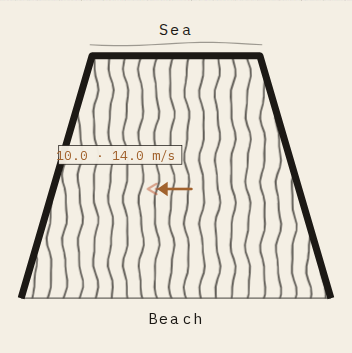
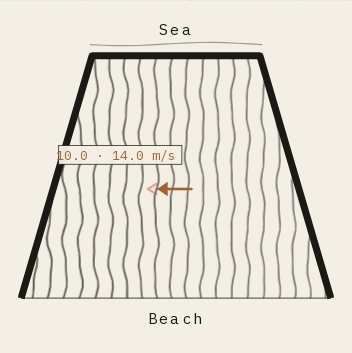
Fix sea crest gap and restore graduated plan shelter
Clamp overwash strokes to the wall crest ink line so sea mode no longer
shows a paper strip between the solid wall and wave lines. Reintroduce
continuous wind-aligned shelter on the plan: narrow calm band at the
seaward wall, wider at the beach cliff, with wall shelter dropped when
submerged. QA captures for sea, pool, and both lee directions.

diff --git a/components/plan-view.tsx b/components/plan-view.tsx
@@ -20,7 +20,7 @@ import {
   poolPlanCorners,
   type PlanPoint,
 } from "@/lib/pool-plan";
-import { quieterZone, type QuietZone } from "@/lib/shelter";
+import { quieterZone, type PlanShelterInput, type QuietZone } from "@/lib/shelter";
 import { windGlyphMark } from "@/lib/wind-glyph";
 
 const VIEW_W = 300;
@@ -153,6 +153,7 @@ function localToPlan(
 
 function RoughnessField({
   chopLevel,
+  shelter,
   zone,
   phase,
   travel,
@@ -160,6 +161,7 @@ function RoughnessField({
   meanMs,
 }: {
   chopLevel: ChopLevel;
+  shelter: PlanShelterInput | null;
   zone: QuietZone | null;
   phase: number;
   travel: number;
@@ -175,13 +177,6 @@ function RoughnessField({
     const ne = planProject(corners.ne, layout);
     const se = planProject(corners.se, layout);
     const sw = planProject(corners.sw, layout);
-    const quietForRough =
-      zone == null
-        ? null
-        : zone.whole
-          ? { whole: true, polygon: [] as PlanPoint[] }
-          : { whole: false, polygon: zone.polygon };
-
     const reach = Math.max(
       Math.hypot(nw.x - mid.x, nw.y - mid.y),
       Math.hypot(ne.x - mid.x, ne.y - mid.y),
@@ -195,7 +190,12 @@ function RoughnessField({
     for (let ly = -half; ly <= half; ly += stepY) {
       let rough = 0;
       for (let lx = -half; lx <= half; lx += stepX) {
-        const sample = roughnessAt(localToPlan(lx, ly, mid, travel, layout), chopLevel, quietForRough, meanMs ?? 0);
+        const sample = roughnessAt(
+          localToPlan(lx, ly, mid, travel, layout),
+          chopLevel,
+          shelter,
+          meanMs ?? 0,
+        );
         rough = Math.max(rough, sample + windBoost * (1 - sample * 0.35));
       }
       const ink = planChopInk(rough);
@@ -206,7 +206,7 @@ function RoughnessField({
     }
 
     return rows;
-  }, [chopLevel, zone, phase, travel, mid, meanMs]);
+  }, [chopLevel, shelter, zone, phase, travel, mid, meanMs]);
 
   return (
     <g clipPath="url(#pool-clip)">
@@ -234,6 +234,7 @@ function PlanDrawing({
   gustMs,
   submerged,
   zone,
+  shelter,
   chopLevel,
   phase,
 }: {
@@ -242,6 +243,7 @@ function PlanDrawing({
   gustMs: number | null;
   submerged: boolean;
   zone: QuietZone | null;
+  shelter: PlanShelterInput | null;
   chopLevel: ChopLevel;
   phase: number;
 }) {
@@ -286,6 +288,7 @@ function PlanDrawing({
       ) : null}
       <RoughnessField
         chopLevel={chopLevel}
+        shelter={shelter}
         zone={zone}
         phase={phase}
         travel={travel ?? 0}
@@ -363,6 +366,14 @@ export function PlanView({
           compass: wind.hasDirection ? wind.compass : null,
         })
       : null;
+  const shelter: PlanShelterInput | null =
+    wind?.hasDirection && wind.directionDeg != null && Number.isFinite(wind.directionDeg)
+      ? {
+          fromDeg: wind.directionDeg,
+          compass: wind.compass,
+          wallShelters: !submerged,
+        }
+      : null;
 
   return (
     <figure
@@ -381,6 +392,7 @@ export function PlanView({
         gustMs={gustMs != null && Number.isFinite(gustMs) ? gustMs : null}
         submerged={submerged}
         zone={zone}
+        shelter={shelter}
         chopLevel={chopLevel}
         phase={reduced ? 0 : phase}
       />

diff --git a/lib/shelter.ts b/lib/shelter.ts
@@ -14,6 +14,20 @@ import { poolOutline, type Xyz } from "./geography";
 
 type PlanPoint = { x: number; y: number };
 
+/** Wind-aligned graduated chop shelter for the plan (not the legacy quiet hatch). */
+export type PlanShelterInput = {
+  fromDeg: number;
+  compass: string | null;
+  /** False when the seaward wall is submerged and no longer shelters the pool. */
+  wallShelters: boolean;
+};
+
+const WALL_CALM_FRAC = 0.1;
+const BEACH_CALM_FRAC = 0.3;
+const SIDE_CALM_FRAC = 0.1;
+/** Calm-band floor as a share of forecast chop — still inks at ~3 m/s. */
+const CALM_ROUGHNESS_MULT = 0.42;
+
 /** At or below this mean, the whole pool is the quiet patch. Metres per second. */
 export const QUIET_CALM_MS = 2.5;
 
@@ -130,6 +144,57 @@ export function polygonArea(poly: PlanPoint[]): number {
  * Quieter patch in plan metres (X east, Y north, origin on the seaward crest).
  * Null when the wind has strength but no direction — no invented lee.
  */
+/** 0 at the upwind edge, 1 at the downwind edge, along the wind-from axis. */
+export function planUpwindFraction(point: PlanPoint, fromDeg: number): number {
+  const rad = (fromDeg * Math.PI) / 180;
+  const upE = Math.sin(rad);
+  const upN = Math.cos(rad);
+  const outline = outlinePoints();
+  let min = Infinity;
+  let max = -Infinity;
+  for (const p of outline) {
+    const dot = p.x * upE + p.y * upN;
+    min = Math.min(min, dot);
+    max = Math.max(max, dot);
+  }
+  const span = max - min;
+  if (!(span > 1e-6)) return 0.5;
+  const dot = point.x * upE + point.y * upN;
+  return Math.min(1, Math.max(0, (max - dot) / span));
+}
+
+/**
+ * Calm-band width as a share of pool depth along the wind. The seaward wall
+ * uses a narrow band; the open beach and cliff use a wider one.
+ */
+export function planCalmBandFraction(fromDeg: number, wallShelters: boolean): number {
+  const fromN = Math.cos((fromDeg * Math.PI) / 180);
+  if (fromN > 0.35) return wallShelters ? WALL_CALM_FRAC : 0;
+  if (fromN < -0.35) return BEACH_CALM_FRAC;
+  return SIDE_CALM_FRAC;
+}
+
+/**
+ * Continuous 0–1 multiplier for plan chop roughness. Calm sits upwind; the
+ * lee ramps smoothly to full forecast roughness.
+ */
+export function graduatedShelterMultiplier(
+  point: PlanPoint,
+  input: PlanShelterInput,
+  meanMs: number,
+): number {
+  const ms = Number.isFinite(meanMs) ? Math.max(0, meanMs) : 0;
+  if (ms < QUIET_CALM_MS) return CALM_ROUGHNESS_MULT;
+  if (!Number.isFinite(input.fromDeg)) return 1;
+  const calmFrac = planCalmBandFraction(input.fromDeg, input.wallShelters);
+  if (calmFrac <= 0) return 1;
+  const u = planUpwindFraction(point, input.fromDeg);
+  if (u <= calmFrac) return CALM_ROUGHNESS_MULT;
+  const t = (u - calmFrac) / (1 - calmFrac);
+  const eased = t * t * (3 - 2 * t);
+  return CALM_ROUGHNESS_MULT + eased * (1 - CALM_ROUGHNESS_MULT);
+}
+
 export function quieterZone(input: {
   fromDeg: number | null;
   speedMs: number;

diff --git a/lib/plan-roughness.ts b/lib/plan-roughness.ts
@@ -1,6 +1,6 @@
 import type { ChopLevel } from "./chop";
 import type { PlanPoint } from "./pool-plan";
-import { polygonArea } from "./shelter";
+import { graduatedShelterMultiplier, polygonArea, type PlanShelterInput } from "./shelter";
 
 /** Vertical gap between wind-aligned chop strokes, in plan SVG units. */
 export const PLAN_CHOP_ROW_GAP = 13;
@@ -22,36 +22,20 @@ export function planBaseRoughness(level: ChopLevel, meanMs: number): number {
   return Math.max(fromChop, 0.22);
 }
 
-function pointInPoly(point: PlanPoint, poly: PlanPoint[]): boolean {
-  let inside = false;
-  for (let i = 0, j = poly.length - 1; i < poly.length; j = i++) {
-    const xi = poly[i].x;
-    const yi = poly[i].y;
-    const xj = poly[j].x;
-    const yj = poly[j].y;
-    const intersect =
-      yi > point.y !== yj > point.y && point.x < ((xj - xi) * (point.y - yi)) / (yj - yi + 1e-12) + xi;
-    if (intersect) inside = !inside;
-  }
-  return inside;
-}
-
 /**
- * Roughness 0–1 at a plan point. Quiet polygon is calm; outside scales with chop.
- * `whole` quiet still leaves a faint wash when chop is high.
+ * Roughness 0–1 at a plan point. Optional graduated shelter scales chop upwind
+ * to downwind; without shelter the forecast chop fills the pool.
  */
 export function roughnessAt(
   point: PlanPoint,
   chopLevel: ChopLevel,
-  quiet: { whole: boolean; polygon: PlanPoint[] } | null,
+  shelter: PlanShelterInput | null,
   meanMs = 0,
 ): number {
   const base = planBaseRoughness(chopLevel, meanMs);
   if (base < 0.02) return 0;
-  if (!quiet) return base;
-  if (quiet.whole) return base * 0.12;
-  if (pointInPoly(point, quiet.polygon)) return base * 0.06;
-  return base;
+  if (!shelter) return base;
+  return base * graduatedShelterMultiplier(point, shelter, meanMs);
 }
 
 /** Plan ink strength from mean wind (m/s). Calm stays soft; a gale does not pile on. */

diff --git a/lib/shelter.test.ts b/lib/shelter.test.ts
@@ -1,7 +1,26 @@
 import assert from "node:assert/strict";
 import test from "node:test";
 import { poolDepthM, poolOutline } from "./geography.ts";
-import { polygonArea, quieterZone, QUIET_MAX_AREA_FRAC, QUIET_LABEL } from "./shelter.ts";
+import {
+  graduatedShelterMultiplier,
+  planCalmBandFraction,
+  planUpwindFraction,
+  polygonArea,
+  quieterZone,
+  QUIET_MAX_AREA_FRAC,
+  QUIET_LABEL,
+} from "./shelter.ts";
+
+test("graduated shelter is calm upwind and ramps to full chop downwind", () => {
+  const north = { fromDeg: 0, compass: "N", wallShelters: true };
+  const wall = { x: 0, y: poolOutline()[0].y };
+  const beach = { x: 0, y: poolOutline()[2].y };
+  assert.ok(graduatedShelterMultiplier(wall, north, 6) < graduatedShelterMultiplier(beach, north, 6));
+  assert.ok(planCalmBandFraction(0, true) === 0.1);
+  assert.equal(planCalmBandFraction(0, false), 0);
+  assert.equal(planCalmBandFraction(180, true), 0.3);
+  assert.ok(planUpwindFraction(wall, 0) < planUpwindFraction(beach, 0));
+});
 
 test("the quiet label says it is a rough guess", () => {
   assert.equal(QUIET_LABEL, "quieter (rough guess)");

diff --git a/lib/plan-roughness.test.ts b/lib/plan-roughness.test.ts
@@ -1,12 +1,16 @@
 import assert from "node:assert/strict";
 import test from "node:test";
 import { PLAN_CHOP_ROW_GAP, chopLocalToScreen, planChopInk, roughnessAt } from "./plan-roughness.ts";
+import { poolPlanCorners } from "./pool-plan.ts";
 
 test("a light breeze still inks sparse chop, including a sheltered step-down", () => {
   const open = roughnessAt({ x: 0, y: -40 }, 2, null, 3.2);
-  const sheltered = roughnessAt({ x: 0, y: -40 }, 1, null, 3.2);
+  const northWind = { fromDeg: 0, compass: "N", wallShelters: true };
+  const sheltered = roughnessAt({ x: 0, y: poolPlanCorners().nw.y }, 2, northWind, 3.2);
+  const exposed = roughnessAt({ x: 0, y: -40 }, 1, northWind, 3.2);
   assert.ok(open >= 0.22);
-  assert.ok(sheltered >= 0.22);
+  assert.ok(sheltered >= 0.08);
+  assert.ok(exposed > sheltered);
   const ink = planChopInk(sheltered);
   assert.ok(ink);
   assert.ok(ink.opacity >= 0.45);

diff --git a/components/section-canvas.tsx b/components/section-canvas.tsx
@@ -199,8 +199,11 @@ function paint(
   /** Strokes over the crest only. Anything at or below the crest would cut the wall. */
   const washOverCrest = (u0: number, u1: number) => {
     if (u1 - u0 < 0.08) return;
-    const yIfClear = (depth: number) => (u: number) =>
-      seaWashClearsWall(surface(u), depth, PX) ? ySurface(u) + depth : Number.NaN;
+    const crestInkY = yOf(1);
+    const yIfClear = (depth: number) => (u: number) => {
+      if (!seaWashClearsWall(surface(u), depth, PX)) return Number.NaN;
+      return Math.max(ySurface(u) + depth, crestInkY);
+    };
     drawRuns(ctx, u0, u1, yIfClear(0), 1.45, 0.94);
     for (let i = 1; i <= motion.lines; i++) {
       const depth = 5 + i * (6 + section.chopLevel * 0.6);
